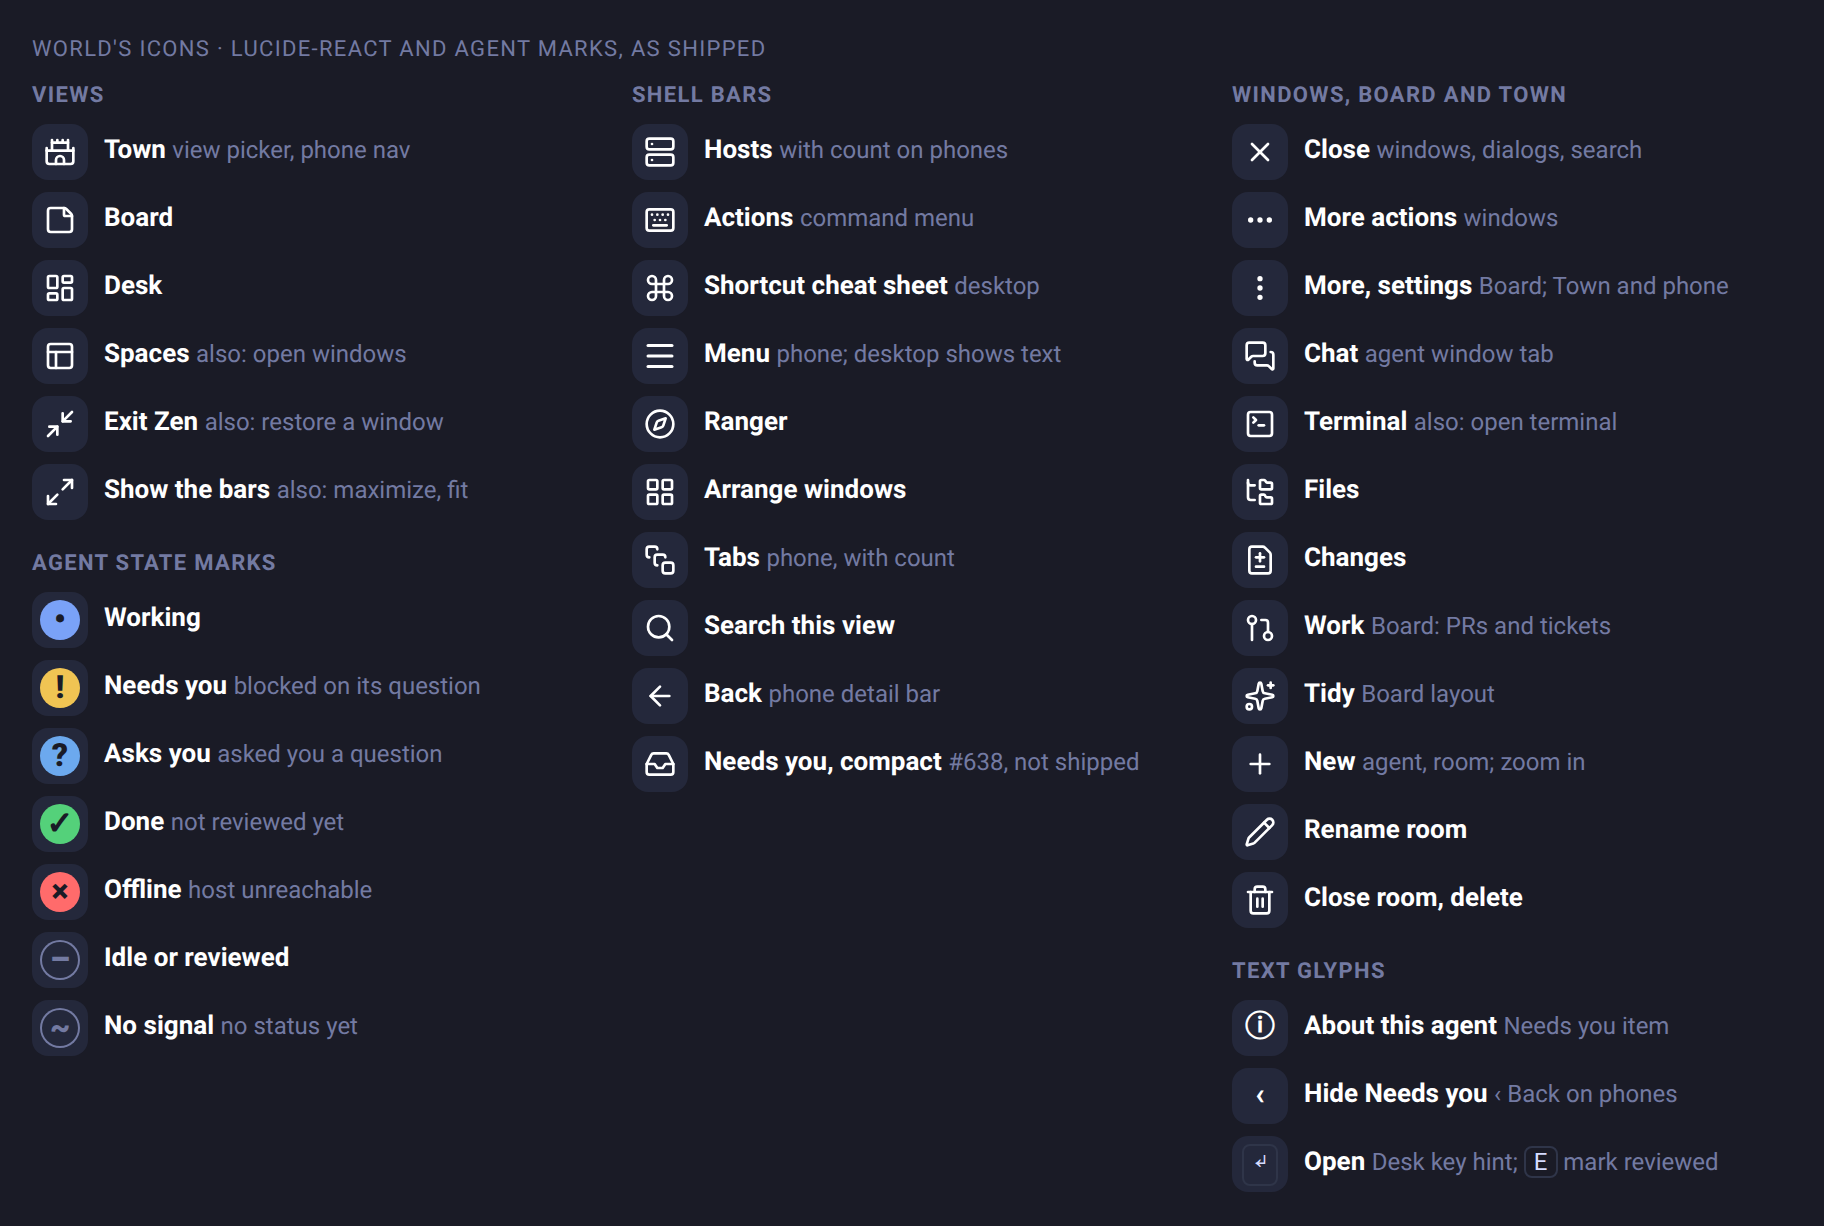
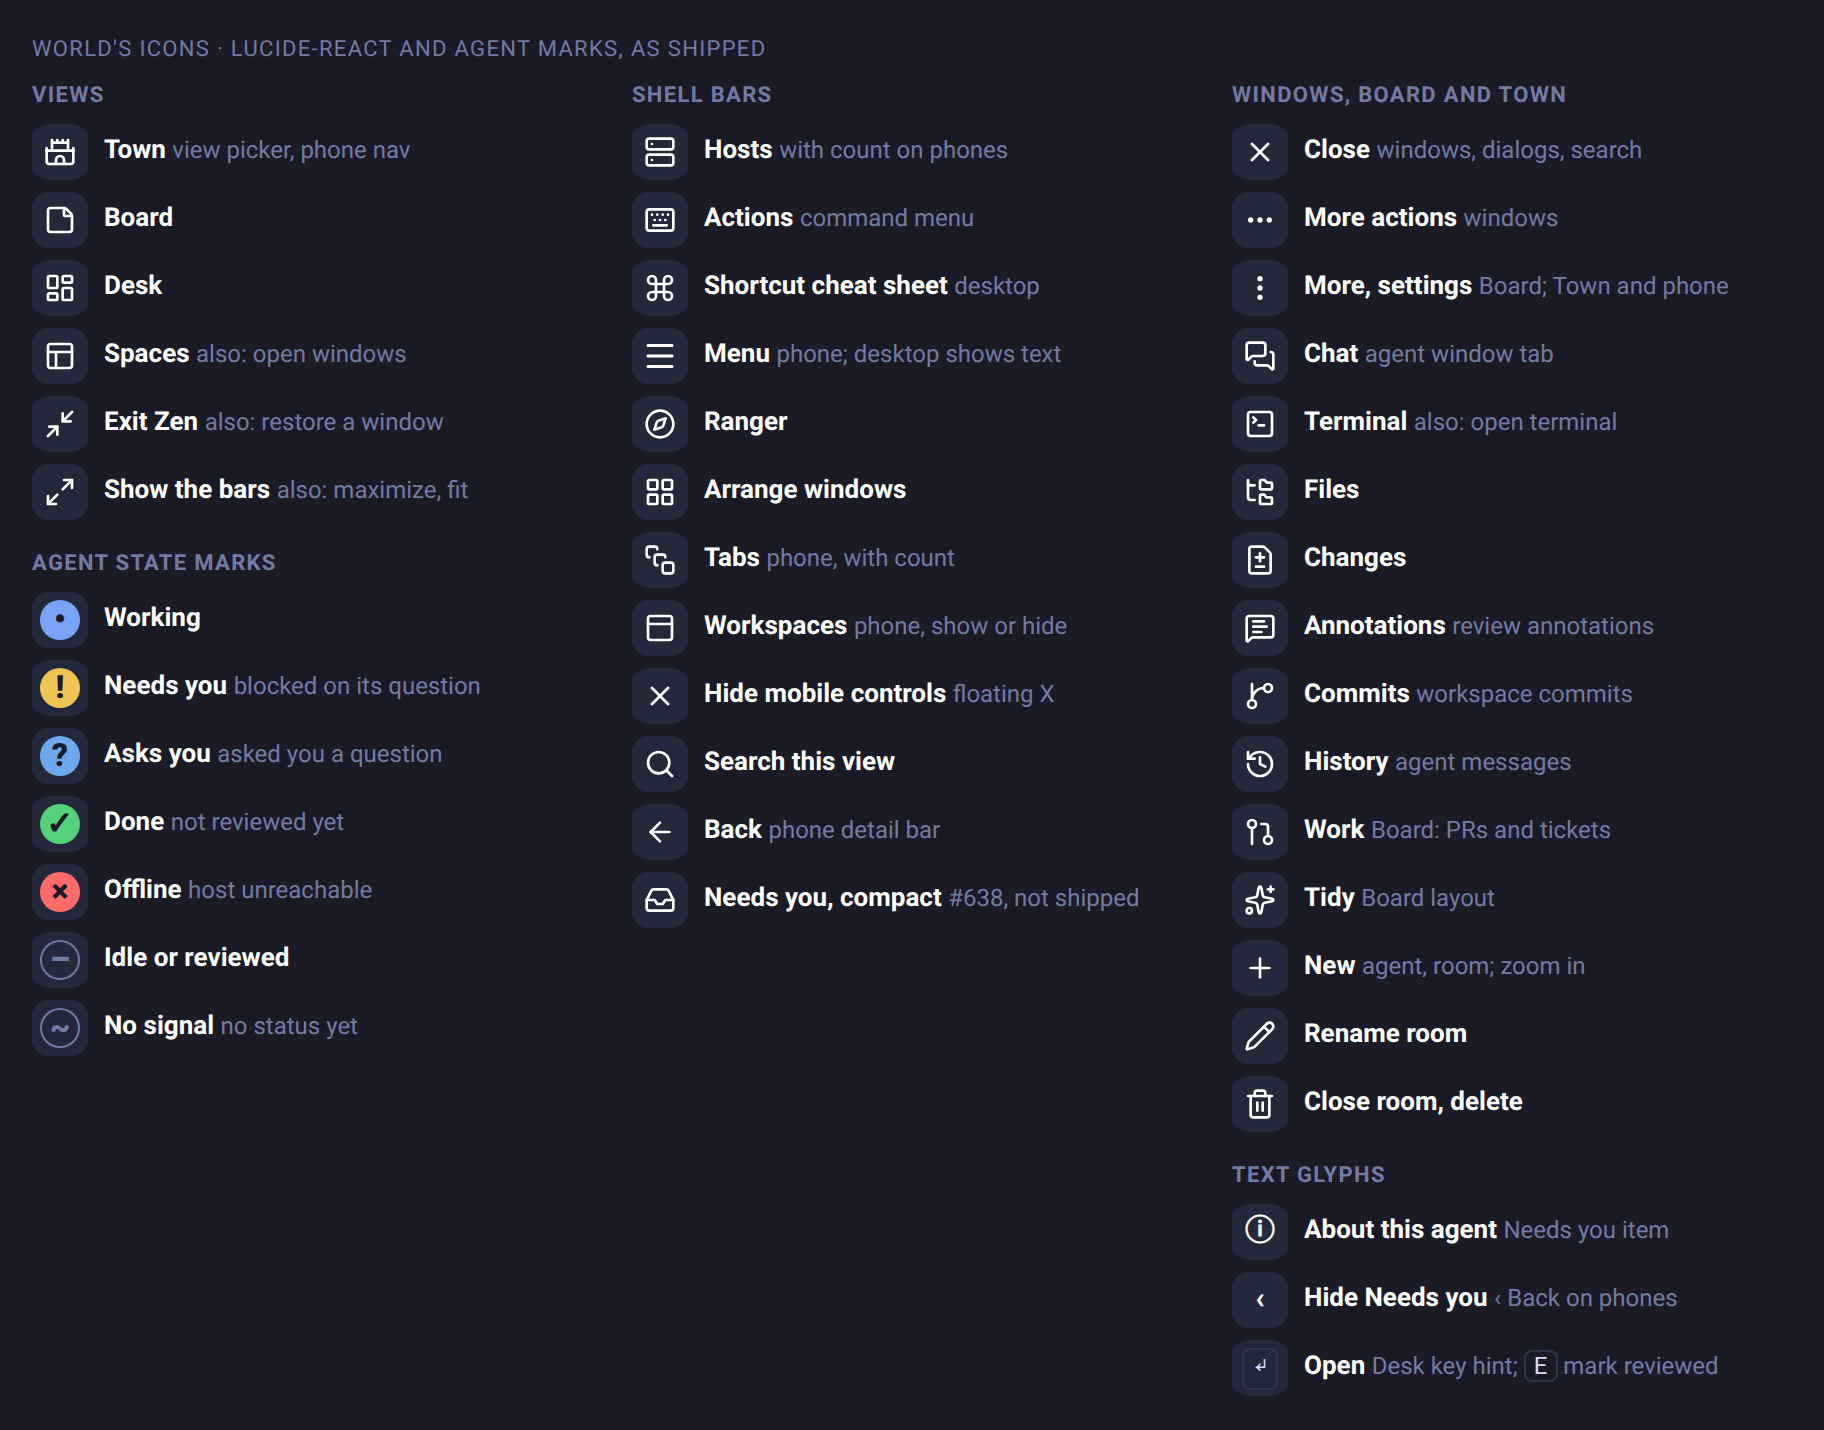
Explain phone workspace controls in the style guide legend

diff --git a/docs/design/style-guide.md b/docs/design/style-guide.md
@@ -119,8 +119,10 @@ the proposals.
 
 On phones, Board and Desk also show the shell's floating controls for the
 selected terminal: Ranger, Tabs, window arrangement and the workspace views
-(files, changes, commits and history). Today they can cover lane content. No
-rule here covers floating controls yet.
+(Files, Changes, Annotations, Commits and agent message History), plus the
+Workspaces toggle. The floating X hides these mobile controls; it does not close
+an agent window. Today they can cover lane content. No rule here covers floating
+controls yet.
 
 ## Icons
 
@@ -146,11 +148,15 @@ plain text glyphs.
 | `Compass` | Ranger | top bar, phone floating controls |
 | `LayoutGrid`; `PanelsTopLeft` with a count | Arrange windows; open windows | top bar; Arrange also on phones |
 | `SquareStack` with a count | Tabs | phone bars and floating controls |
+| `PanelTop` | Show or hide Workspaces | phone workspace shortcut |
 | `Search` | Search this view | view toolbar |
 | `ArrowLeft`; `ChevronLeft` | Back | phone detail bar; a window opened from another surface |
-| `X` | Close | windows, dialogs, search |
+| `X` | Close a window, dialog or search; hide mobile controls | windows, dialogs, search; phone floating controls |
 | `MoreHorizontal`; `EllipsisVertical` | More actions; more or settings | windows; Board, Town and phones |
 | `MessagesSquare`, `SquareTerminal`, `FolderTree`, `FileDiff` | Chat, Terminal, Files, Changes | agent window views |
+| `MessageSquareText` | Review Annotations | phone workspace views |
+| `GitBranch` | Workspace Commits | phone workspace views |
+| `History` | Agent message History | phone workspace views |
 | `GitPullRequest`, `Sparkles`, `Minus`, `Plus` | Work, tidy, zoom out, zoom in or new | Board dock, Town |
 | `Pencil`; `Trash2` | Rename room; close room or delete | Town room plaques, Board |
 | Agent marks `•` `!` `?` `✓` `×` `–` `~` | Working, Needs you, Asks you, Done, Offline, Idle or Reviewed, No signal | Needs you, agent hover cards and Town's peek; Desk shows the `?` mark |
